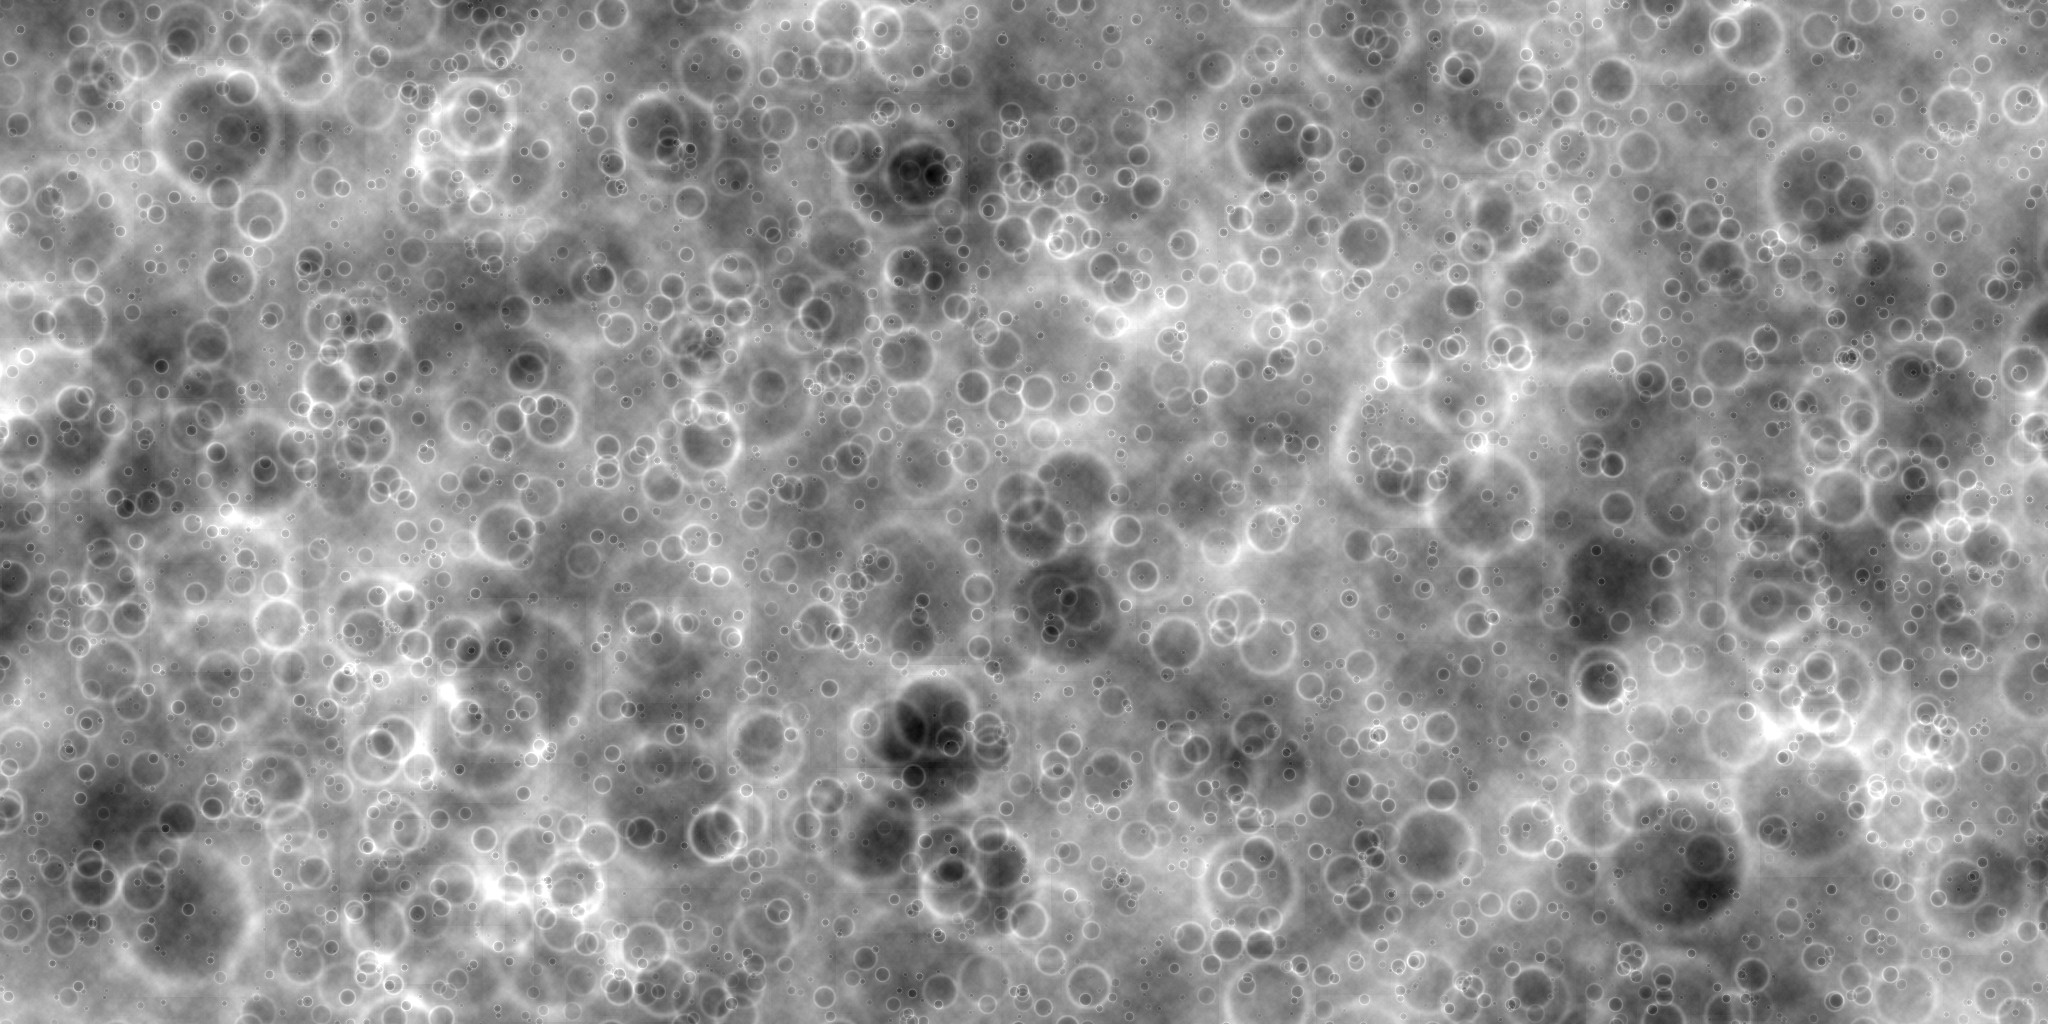
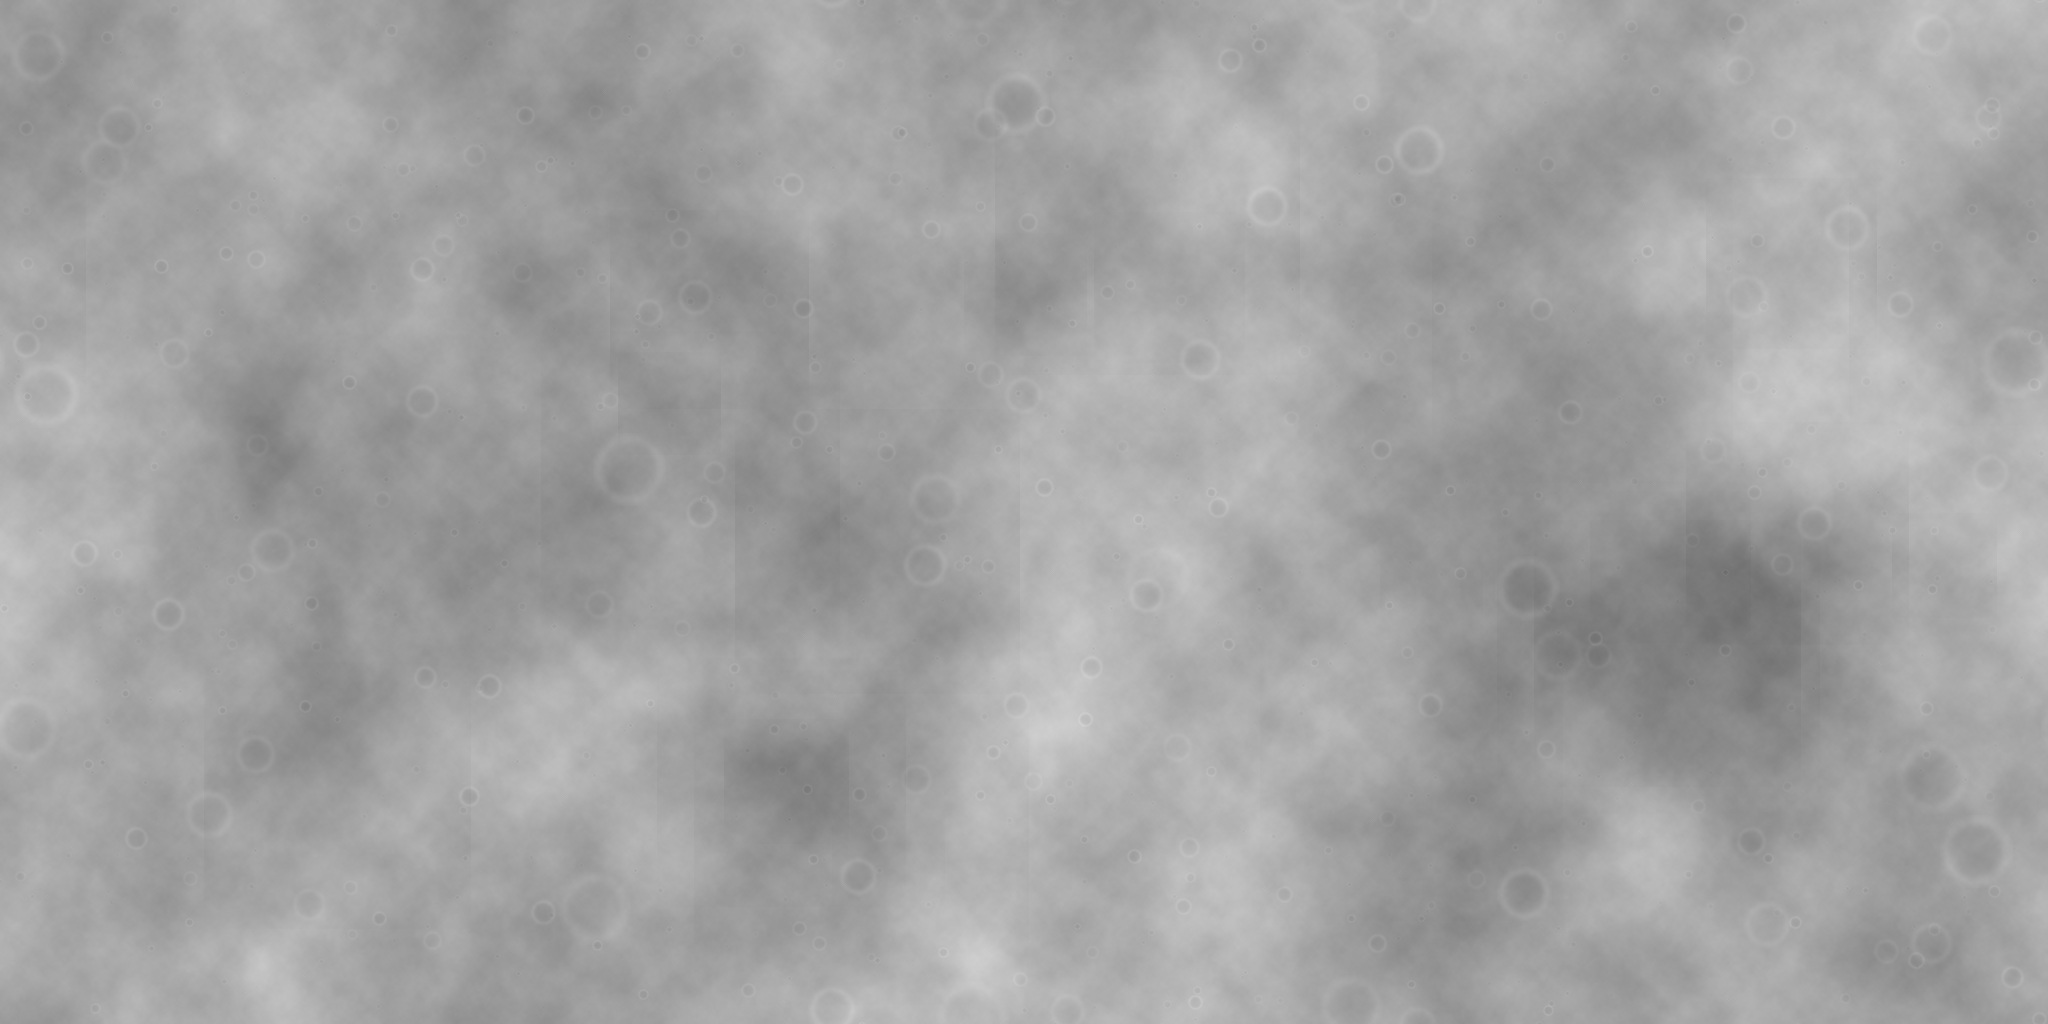
Refine lunar material with cool silver tones and subtle orbit

diff --git a/index.html b/index.html
@@ -8,10 +8,10 @@
   <link rel="icon" href="assets/muon.jpg"><link rel="preconnect" href="https://fonts.googleapis.com">
   <link rel="preconnect" href="https://fonts.gstatic.com" crossorigin>
   <link href="https://fonts.googleapis.com/css2?family=Inter:wght@400;500;600&family=Sora:wght@400;500;600&display=swap" rel="stylesheet">
-  <link rel="stylesheet" href="style.css?v=2">
+  <link rel="stylesheet" href="style.css?v=3">
 </head>
 <body>
-  <div class="moon-world" aria-hidden="true"><div class="moon-fallback"></div><canvas id="moon-canvas"></canvas><div class="moon-vignette"></div></div>
+  <div class="moon-world" aria-hidden="true"><div class="moon-fallback"></div><div class="lunar-orbit"><i></i></div><canvas id="moon-canvas"></canvas><div class="moon-vignette"></div></div>
   <div class="scroll-line" aria-hidden="true"></div>
   <header class="nav"><a class="wordmark" href="#home" aria-label="MUON VISUALS home"><svg viewBox="325 735 595 164" width="145" height="40" role="img" aria-label="MUON VISUALS"><defs><mask id="logo-header" maskUnits="userSpaceOnUse" x="325" y="735" width="595" height="164"><image href="assets/muon.jpg" width="1254" height="1254"/></mask><linearGradient id="metal-header" x1="0" y1="0" x2="0.3" y2="1"><stop offset="0" stop-color="#ffffff"/><stop offset=".42" stop-color="#f5f5ee"/><stop offset=".65" stop-color="#aeb3a5"/><stop offset="1" stop-color="#f5f5ee"/></linearGradient></defs><rect x="325" y="735" width="595" height="164" fill="url(#metal-header)" mask="url(#logo-header)"/></svg></a><nav aria-label="Main navigation"><a href="#expertise">What we build</a><a href="#studio">The studio</a><button class="nav-contact quote-trigger" type="button"><span>Get Quote</span><span aria-hidden="true">↗</span></button></nav></header>
   <main>
@@ -43,5 +43,5 @@
   </main>
   <footer><a class="wordmark" href="#home"><svg viewBox="325 735 595 164" width="145" height="40" role="img" aria-label="MUON VISUALS"><defs><mask id="logo-footer" maskUnits="userSpaceOnUse" x="325" y="735" width="595" height="164"><image href="assets/muon.jpg" width="1254" height="1254"/></mask><linearGradient id="metal-footer" x1="0" y1="0" x2="0.3" y2="1"><stop offset="0" stop-color="#ffffff"/><stop offset=".42" stop-color="#f5f5ee"/><stop offset=".65" stop-color="#aeb3a5"/><stop offset="1" stop-color="#f5f5ee"/></linearGradient></defs><rect x="325" y="735" width="595" height="164" fill="url(#metal-footer)" mask="url(#logo-footer)"/></svg></a><p>Design · Technology · AI</p><span>© <span id="year">2026</span> MUON VISUALS</span><a href="#home">Back to top ↑</a></footer>
   <dialog id="quote-dialog" aria-labelledby="quote-title"><div class="quote-panel"><button class="quote-close" type="button" aria-label="Close quote form">×</button><p class="eyebrow"><i></i> LET’S START SOMETHING.</p><h2 id="quote-title">Your next<br><em>possibility.</em></h2><p class="quote-intro">Tell us how to reach you.</p><form id="quote-form"><label for="quote-name">What’s your name?</label><input id="quote-name" name="name" autocomplete="name" placeholder="Your full name" maxlength="100" required><label for="quote-phone">Phone number</label><input id="quote-phone" name="phone" type="tel" inputmode="tel" autocomplete="tel" placeholder="+91 98765 43210" pattern="[+]?[0-9][0-9 \-]{6,23}" maxlength="25" required><label for="quote-email">What’s your email address?</label><input id="quote-email" name="email" type="email" autocomplete="email" placeholder="you@example.com" maxlength="254" required><button class="button" type="submit">Continue by email <span aria-hidden="true">↗</span></button><p class="form-note">Opens an email draft with your details. Send it from your email app to complete your enquiry.</p><p class="form-status" role="status"></p></form></div></dialog>
-  <script src="moon.js?v=2"></script><script src="script.js?v=2"></script>
+  <script src="moon.js?v=3"></script><script src="script.js?v=3"></script>
 </body></html>

diff --git a/moon.js b/moon.js
@@ -26,9 +26,9 @@
       const rot=.4+scroll*.0012,shift=rot/(2*Math.PI)*2048,d=frame.data;
       for(let i=0;i<us.length;i++){if(!edges[i])continue;const tx=((Math.floor(us[i]*2048+shift)%2048)+2048)%2048,ty=vs[i],idx=(ty*2048+tx)*4,h=pixels[idx]/255;
         const left=pixels[(ty*2048+(tx+2047)%2048)*4]/255,right=pixels[(ty*2048+(tx+1)%2048)*4]/255;
-        const relief=(left-right)*1.9;const diffuse=Math.max(0,lights[i]+relief);
-        const light=.016+diffuse*.98,base=(.22+h*.78)*light;const k=i*4;
-        d[k]=Math.min(255,(.38+.45*h)*base*255);d[k+1]=Math.min(255,(.40+.43*h)*base*255);d[k+2]=Math.min(255,(.42+.37*h)*base*255);d[k+3]=edges[i];
+        const relief=(left-right)*.65;const diffuse=Math.max(0,lights[i]+relief);
+        const light=.035+diffuse*.98,base=(.38+h*.62)*light;const k=i*4;
+        d[k]=Math.min(255,(.46+.42*h)*base*255);d[k+1]=Math.min(255,(.49+.42*h)*base*255);d[k+2]=Math.min(255,(.54+.42*h)*base*255);d[k+3]=edges[i];
       }
       out.putImageData(frame,0,0);const ratio=Math.min(devicePixelRatio||1,1.25),w=Math.round(innerWidth*ratio),h=Math.round(innerHeight*ratio);
       if(view.width!==w||view.height!==h){view.width=w;view.height=h;}ctx.clearRect(0,0,w,h);
@@ -62,15 +62,15 @@
     vec3 tangent=normalize(cross(local,vec3(0.,1.,.01)));vec3 bitangent=cross(local,tangent);
     float a=heightAt(local+tangent*.0025)-heightAt(local-tangent*.0025);
     float b=heightAt(local+bitangent*.0025)-heightAt(local-bitangent*.0025);
-    vec3 bump=normalize(local-tangent*a*2.5-bitangent*b*2.5);
+    vec3 bump=normalize(local-tangent*a*.8-bitangent*b*.8);
     vec3 light=r*normalize(vec3(1.5,.8,.85));
     float diffuse=max(0.,dot(bump,light));
     float terminator=smoothstep(-.09,.22,dot(local,light));
-    float albedo=.22+h*.78;
-    vec3 stone=mix(vec3(.38,.40,.42),vec3(.83,.83,.79),h);
-    vec3 color=stone*albedo*(.018+diffuse*.98)*terminator;
+    float albedo=.38+h*.62;
+    vec3 stone=mix(vec3(.46,.49,.54),vec3(.88,.91,.96),h);
+    vec3 color=stone*albedo*(.035+diffuse*.98)*terminator;
     color+=stone*.006;
-    float fresnel=pow(1.-n.z,5.);color+=vec3(.22,.28,.12)*fresnel*.08;
+    float fresnel=pow(1.-n.z,5.);color+=vec3(.28,.37,.50)*fresnel*.18;
     float edge=1.-smoothstep(.994,1.,rr);
     gl_FragColor=vec4(color,edge);
   }`;

diff --git a/style.css b/style.css
@@ -10,3 +10,5 @@
 
 /* Keep the scroll-driven moon present behind the dark chapters. */
 .expertise,.process{background:#080a0c88}.studio{background:#101518bb}
+/* Silver lunar material and a restrained orbital accent. */
+.lunar-orbit{position:absolute;left:43%;top:14%;width:69vh;height:75vh;border:1px solid #c7ff003b;border-radius:50%;transform:rotate(-28deg) rotateX(65deg) scaleX(1.4);box-shadow:0 0 14px #c7ff0008;animation:lunarOrbit 32s linear infinite}.lunar-orbit i{position:absolute;left:16%;top:12%;width:5px;height:5px;border-radius:50%;background:#c7ff00;box-shadow:0 0 15px #c7ff0077}.moon-world canvas{z-index:1}.moon-vignette{z-index:2}@keyframes lunarOrbit{to{transform:rotate(-28deg) rotateX(65deg) scaleX(1.4) rotateZ(360deg)}}@media(max-width:760px){.lunar-orbit{left:8%;top:51%;width:85vw;height:90vw}}@media(prefers-reduced-motion:reduce){.lunar-orbit{animation:none}}
